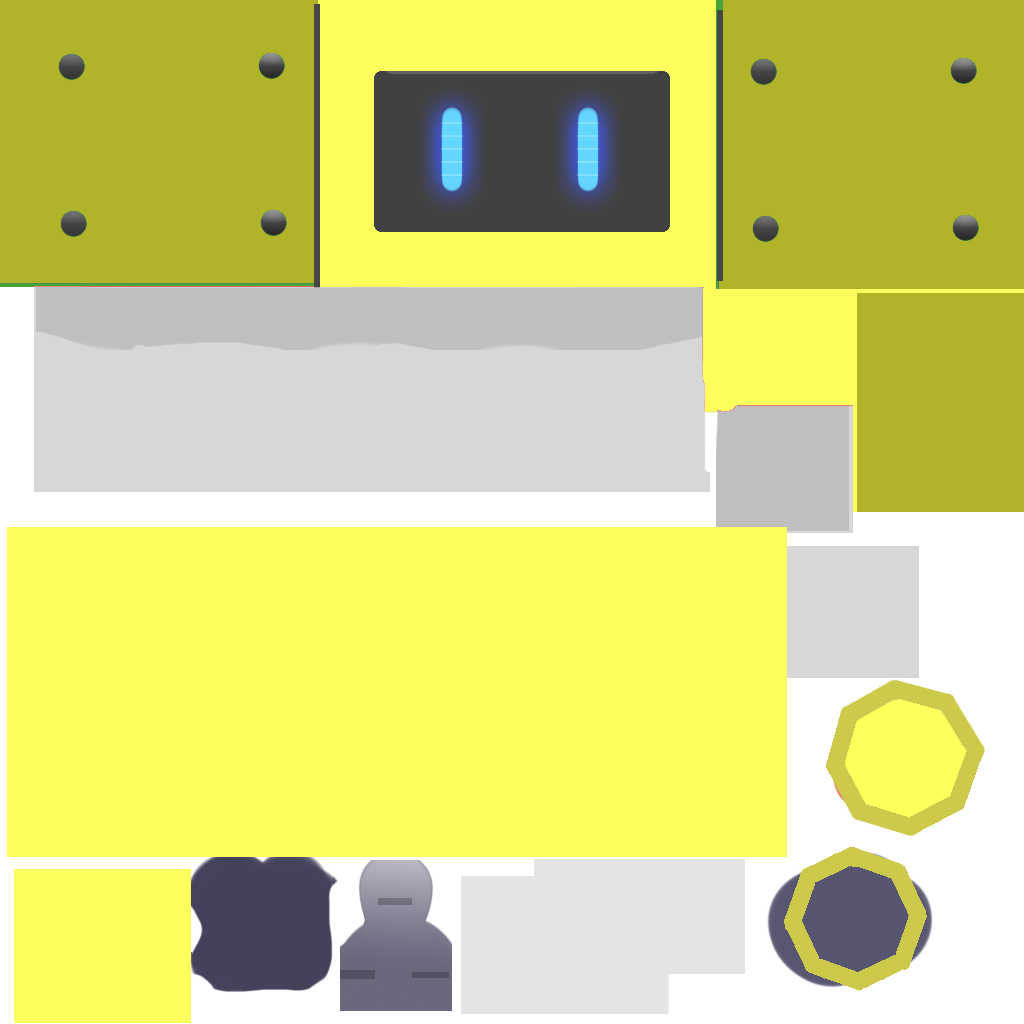
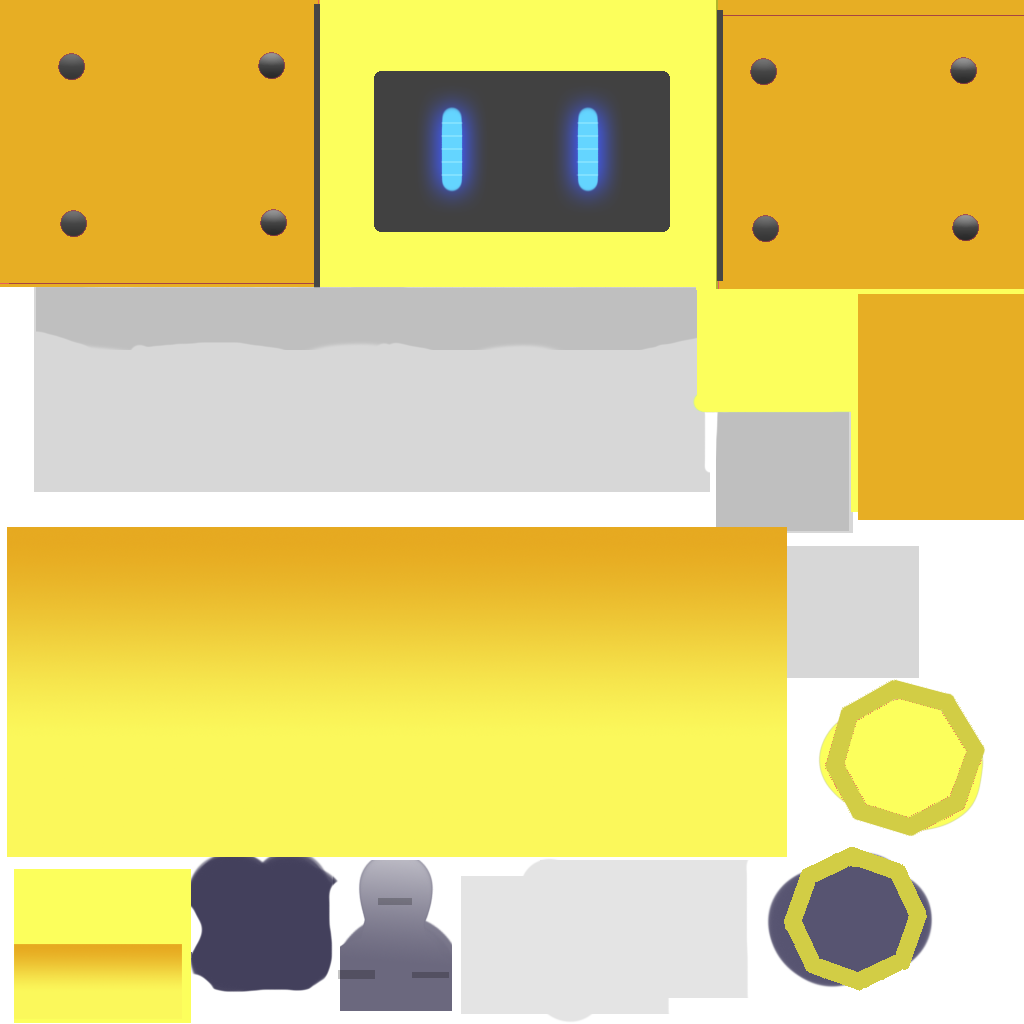
ワープエフェクト追加、素材差し替え

diff --git a/ES Game Library/ES Game Library/MyClass/Stage/Stage_1/Warp/Warp.h b/ES Game Library/ES Game Library/MyClass/Stage/Stage_1/Warp/Warp.h
@@ -8,7 +8,7 @@
 
 #include"../../../../ESGLib.h"
 #include"../../StageBase.h"
-
+#include"../../../ParticleSystem/Particle.h"
 class Warp :public StageBase
 {
 public:
@@ -18,5 +18,7 @@ public:
 	int Update() override;
 	void Draw3D() override;
 private:
+	std::unique_ptr<ParticleSystem>_warp_effect;
 	EFFECT _shader;
+	int effect_time = 0;
 };
